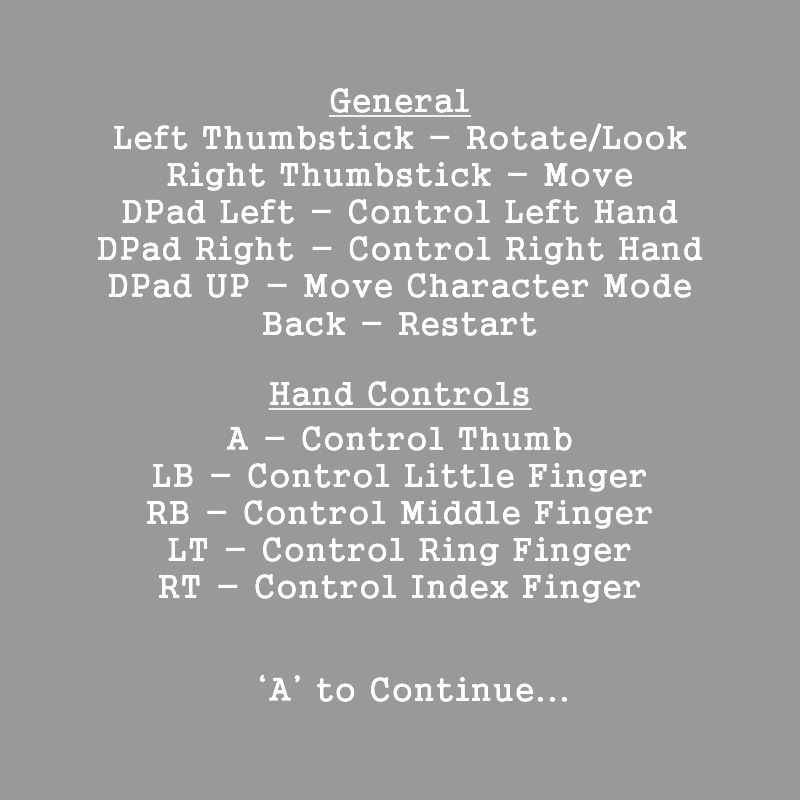
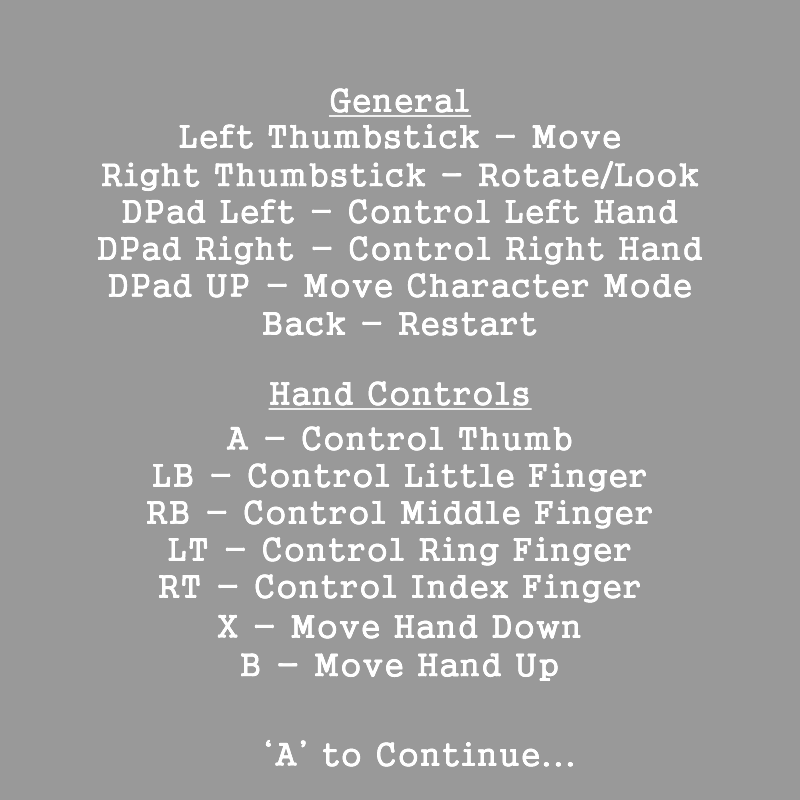
Fixed control images not having controls for up/down hand movement.
(Also this build is no longer using unity pro so lighting isn't as pretty)

diff --git a/Assets/Scripts/Camera/Controls.cs b/Assets/Scripts/Camera/Controls.cs
@@ -11,15 +11,13 @@ public class Controls : MonoBehaviour {
     private float m_startTime = 0.0f;
 
 	// Use this for initialization
-	void Start () {
+	void Start ()
+    {
         m_startTime = Time.time;
 	}
-	
-	// Update is called once per frame
-	void FixedUpdate () {
-                
-        m_hasController = Input.GetJoystickNames().Length > 0;
 
+    void Update()
+    {
         if (Time.time - m_startTime > 5.0f)
         {
             if (Input.GetButton("AButton"))
@@ -27,6 +25,12 @@ public class Controls : MonoBehaviour {
                 Application.LoadLevel("Sandbox");
             }
         }
+    }
+	
+	// Update is called once per frame
+	void FixedUpdate () 
+    {                
+        m_hasController = Input.GetJoystickNames().Length > 0;
 	}
 
     void OnGUI()
